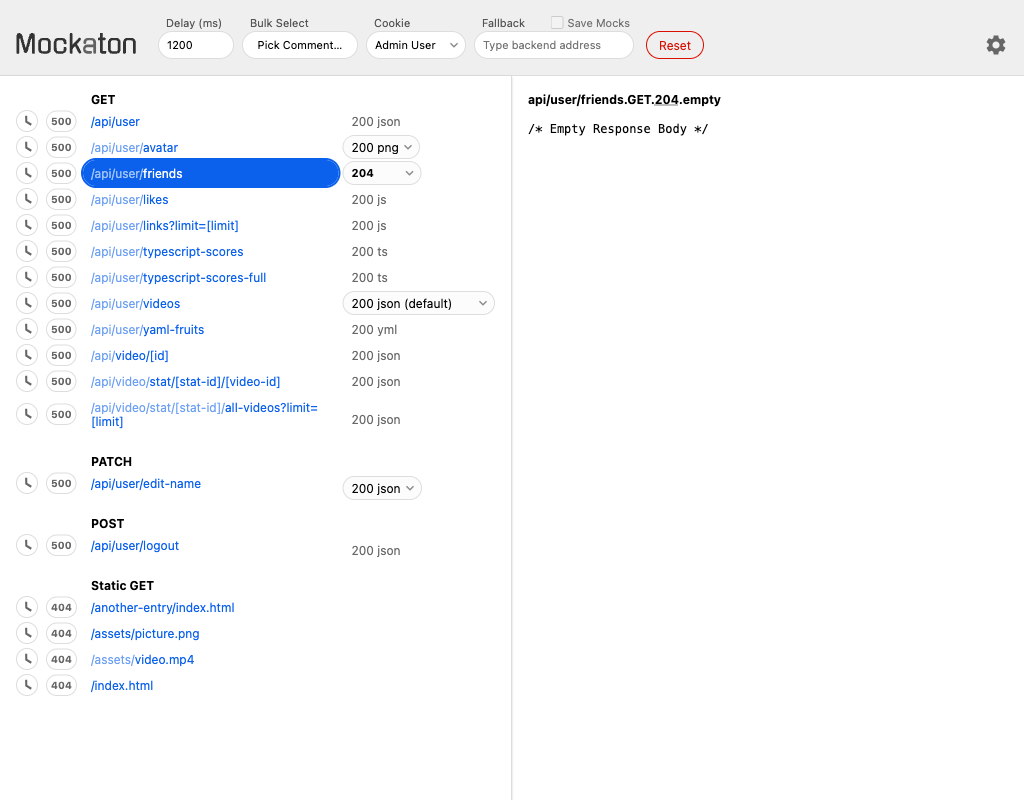
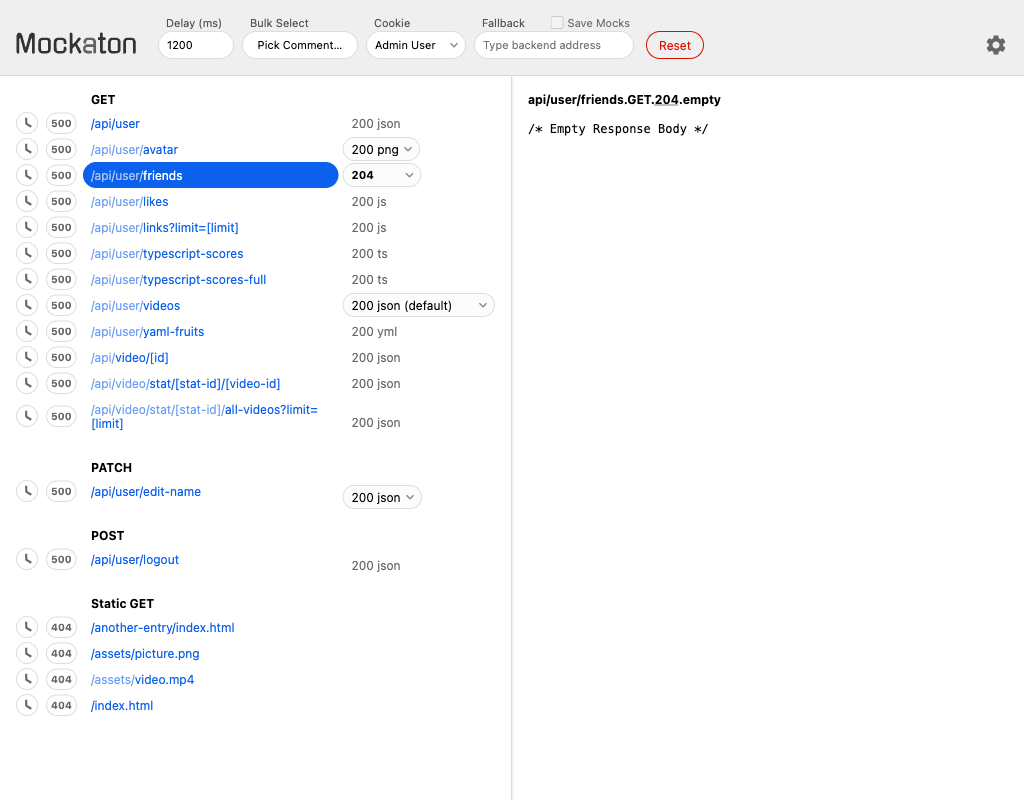
10.6.0 arrow nav

diff --git a/src/Dashboard.js b/src/Dashboard.js
@@ -49,6 +49,13 @@ for (const k of Object.keys(CSS))
 	CSS[k] = k
 
 
+const FocusGroup = {
+	ProxyToggler: 0,
+	DelayToggler: 1,
+	StatusToggler: 2,
+	PreviewLink: 3
+}
+
 const state = /** @type {State} */ {
 	brokersByMethod: {},
 	staticBrokers: {},
@@ -71,19 +78,20 @@ const state = /** @type {State} */ {
 
 	leftSideWidth: undefined,
 
-	chosenLink: {
-		method: '',
-		urlMask: ''
+	chosenLink: { method: '', urlMask: '' },
+	clearChosenLink() {
+		state.chosenLink = { method: '', urlMask: '' }
 	},
 	setChosenLink(method, urlMask) {
-		state.chosenLink = { method, urlMask } 
+		state.chosenLink = { method, urlMask }
 	}
 }
 
 
 const mockaton = new Commander(location.origin)
 updateState()
-deferred(initLongPoll)
+initLongPoll()
+initKeyboardNavigation()
 
 async function updateState() {
 	try {
@@ -92,7 +100,10 @@ async function updateState() {
 			throw response.status
 		Object.assign(state, await response.json())
 		document.body.replaceChildren(...App())
-		findChosenLink()?.click()
+		findChosenLink()?.focus()
+		const { method, urlMask } = state.chosenLink
+		if (method && urlMask)
+			await previewMock(method, urlMask)
 	}
 	catch (error) {
 		onError(error)
@@ -168,7 +179,7 @@ function SettingsMenu(id) {
 				r('input', {
 					type: 'checkbox',
 					checked: groupByMethod,
-					autofocus: true,
+					// autofocus: true, // TODO
 					onChange: toggleGroupByMethod
 				}),
 				r('span', null, t`Group by Method`)),
@@ -208,6 +219,7 @@ function BulkSelector() {
 	// But this way is easier to implement, with a few hacks.
 	const firstOption = t`Pick Comment…`
 	function onChange() {
+		state.clearChosenLink()
 		const value = this.value
 		this.value = firstOption // Hack 
 		mockaton.bulkSelectByComment(value)
@@ -316,6 +328,7 @@ function SaveProxiedCheckbox(ref) {
 
 function ResetButton() {
 	function onClick() {
+		state.clearChosenLink()
 		mockaton.reset()
 			.then(parseError)
 			.then(updateState)
@@ -352,7 +365,7 @@ function MockList() {
 }
 
 
-function Row({ method, urlMask, urlMaskDittoed, broker }) {
+function Row({ method, urlMask, urlMaskDittoed, broker }, i) {
 	const { canProxy, groupByMethod } = state
 	return (
 		r('tr', { 'data-method': method, 'data-urlMask': urlMask },
@@ -360,7 +373,7 @@ function Row({ method, urlMask, urlMaskDittoed, broker }) {
 			r('td', null, DelayRouteToggler(broker)),
 			r('td', null, InternalServerErrorToggler(broker)),
 			!groupByMethod && r('td', className(CSS.Method), method),
-			r('td', null, PreviewLink(method, urlMask, urlMaskDittoed)),
+			r('td', null, PreviewLink(method, urlMask, urlMaskDittoed, i === 0)),
 			r('td', null, MockSelector(broker))))
 }
 
@@ -382,26 +395,29 @@ function rowsFor(targetMethod) {
 	}))
 }
 
-function PreviewLink(method, urlMask, urlMaskDittoed) {
-	const { chosenLink, setChosenLink } = state
+
+function PreviewLink(method, urlMask, urlMaskDittoed, autofocus) {
 	async function onClick(event) {
 		event.preventDefault()
 		try {
 			findChosenLink()?.classList.remove(CSS.chosen)
 			this.classList.add(CSS.chosen)
-			setChosenLink(method, urlMask)
-			await previewMock(method, urlMask, this.href)
+			state.setChosenLink(method, urlMask)
+			await previewMock(method, urlMask)
 		}
 		catch (error) {
 			onError(error)
 		}
 	}
+	const { chosenLink } = state
 	const isChosen = chosenLink.method === method && chosenLink.urlMask === urlMask
 	const [ditto, tail] = urlMaskDittoed
 	return (
 		r('a', {
 			...className(CSS.PreviewLink, isChosen && CSS.chosen),
 			href: urlMask,
+			autofocus,
+			'data-focus-group': FocusGroup.PreviewLink,
 			onClick
 		}, ditto
 			? [r('span', className(CSS.dittoDir), ditto), tail]
@@ -410,7 +426,7 @@ function PreviewLink(method, urlMask, urlMaskDittoed) {
 
 function findChosenLink() {
 	return document.querySelector(
-		`body > main > .${CSS.leftSide} table .${CSS.PreviewLink}.${CSS.chosen}`)
+		`body > main > .${CSS.leftSide} .${CSS.PreviewLink}.${CSS.chosen}`)
 }
 
 const STR_PROXIED = t`Proxied`
@@ -418,11 +434,11 @@ const STR_PROXIED = t`Proxied`
 /** @param {ClientMockBroker} broker */
 function MockSelector(broker) {
 	function onChange() {
-		const { urlMask, method } = parseFilename(this.value)
+		const { method, urlMask } = parseFilename(this.value)
+		state.setChosenLink(method, urlMask)
 		mockaton.select(this.value)
 			.then(parseError)
 			.then(updateState)
-			.then(() => linkFor(method, urlMask)?.click())
 			.catch(onError)
 	}
 
@@ -476,7 +492,8 @@ function DelayRouteToggler(broker) {
 	}
 	return ClickDragToggler({
 		checked: broker.currentMock.delayed,
-		commit
+		commit,
+		focusGroup: FocusGroup.DelayToggler
 	})
 }
 
@@ -485,10 +502,10 @@ function DelayRouteToggler(broker) {
 function InternalServerErrorToggler(broker) {
 	function onChange() {
 		const { method, urlMask } = parseFilename(broker.mocks[0])
+		state.setChosenLink(method, urlMask)
 		mockaton.toggle500(method, urlMask)
 			.then(parseError)
 			.then(updateState)
-			.then(() => linkFor(method, urlMask)?.click())
 			.catch(onError)
 	}
 	return (
@@ -498,6 +515,7 @@ function InternalServerErrorToggler(broker) {
 			},
 			r('input', {
 				type: 'checkbox',
+				'data-focus-group': FocusGroup.StatusToggler,
 				name: broker.currentMock.file,
 				checked: parseFilename(broker.currentMock.file).status === 500,
 				onChange
@@ -509,10 +527,10 @@ function InternalServerErrorToggler(broker) {
 function ProxyToggler(broker) {
 	function onChange() {
 		const { urlMask, method } = parseFilename(broker.mocks[0])
+		state.setChosenLink(method, urlMask)
 		mockaton.setRouteIsProxied(method, urlMask, this.checked)
 			.then(parseError)
 			.then(updateState)
-			.then(() => linkFor(method, urlMask)?.click())
 			.catch(onError)
 	}
 	return (
@@ -523,7 +541,8 @@ function ProxyToggler(broker) {
 			r('input', {
 				type: 'checkbox',
 				checked: !broker.currentMock.file,
-				onChange
+				onChange,
+				'data-focus-group': FocusGroup.ProxyToggler
 			}),
 			CloudIcon()))
 }
@@ -553,7 +572,8 @@ function StaticFilesList() {
 					r('td', null, r('a', {
 						href: broker.route,
 						target: '_blank',
-						className: CSS.PreviewLink
+						className: CSS.PreviewLink,
+						'data-focus-group': FocusGroup.PreviewLink
 					}, dp[i]))
 				))))
 }
@@ -567,7 +587,8 @@ function DelayStaticRouteToggler(broker) {
 	}
 	return ClickDragToggler({
 		checked: broker.delayed,
-		commit
+		commit,
+		focusGroup: FocusGroup.DelayToggler
 	})
 }
 
@@ -586,13 +607,14 @@ function NotFoundToggler(broker) {
 			r('input', {
 				type: 'checkbox',
 				checked: broker.status === 404,
-				onChange
+				onChange,
+				'data-focus-group': FocusGroup.StatusToggler
 			}),
 			r('span', null, t`404`)))
 }
 
 
-function ClickDragToggler({ checked, commit }) {
+function ClickDragToggler({ checked, commit, focusGroup }) {
 	function onPointerEnter(event) {
 		if (event.buttons === 1)
 			onPointerDown.call(this)
@@ -615,6 +637,7 @@ function ClickDragToggler({ checked, commit }) {
 			},
 			r('input', {
 				type: 'checkbox',
+				'data-focus-group': focusGroup,
 				checked,
 				onPointerEnter,
 				onPointerDown,
@@ -623,7 +646,6 @@ function ClickDragToggler({ checked, commit }) {
 			}),
 			TimerIcon()))
 }
-
 
 
 function Resizer() {
@@ -703,7 +725,7 @@ function PayloadViewerTitleWhenProxied({ mime, status, statusText, gatewayIsBad 
 			' ' + mime))
 }
 
-async function previewMock(method, urlMask, href) {
+async function previewMock(method, urlMask) {
 	previewMock.controller?.abort()
 	previewMock.controller = new AbortController
 
@@ -713,7 +735,7 @@ async function previewMock(method, urlMask, href) {
 	}, SPINNER_DELAY)
 
 	try {
-		const response = await fetch(href, {
+		const response = await fetch(urlMask, {
 			method,
 			signal: previewMock.controller.signal
 		})
@@ -781,6 +803,50 @@ function focus(selector) {
 	document.querySelector(selector)?.focus()
 }
 
+function initKeyboardNavigation() {
+	addEventListener('keydown', onKeyDown)
+
+	function onKeyDown(event) {
+		const pivot = document.activeElement
+		switch (event.key) {
+			case 'ArrowDown':
+			case 'ArrowUp': {
+				let fg = pivot.getAttribute('data-focus-group')
+				if (fg !== null) {
+					const offset = event.key === 'ArrowDown' ? +1 : -1
+					circularAdjacent(offset, allInFocusGroup(+fg), pivot).focus()
+				}
+				break
+			}
+			case 'ArrowRight':
+			case 'ArrowLeft': {
+				if (pivot.hasAttribute('data-focus-group') || pivot.classList.contains(CSS.MockSelector)) {
+					const offset = event.key === 'ArrowRight' ? +1 : -1
+					rowFocusable(pivot, offset)?.focus()
+				}
+				break
+			}
+		}
+	}
+
+	function rowFocusable(el, step) {
+		const row = el.closest('tr')
+		if (row) {
+			const focusables = Array.from(row.querySelectorAll('a, input, select:not(:disabled)'))
+			return circularAdjacent(step, focusables, el)
+		}
+	}
+
+	function allInFocusGroup(focusGroup) {
+		return Array.from(document.querySelectorAll(
+			`body > main > .${CSS.leftSide} table > tr > td [data-focus-group="${focusGroup}"]:is(input, a)`))
+	}
+
+	function circularAdjacent(step = 1, arr, pivot) {
+		return arr[(arr.indexOf(pivot) + step + arr.length) % arr.length]
+	}
+}
+
 /** # Misc */
 
 async function parseError(response) {
@@ -838,7 +904,7 @@ function SettingsIcon() {
  */
 
 function initLongPoll() {
-	poll.oldSyncVersion = 0
+	poll.oldSyncVersion = -1
 	poll.controller = new AbortController()
 	poll()
 	document.addEventListener('visibilitychange', () => {
@@ -856,9 +922,11 @@ async function poll() {
 		const response = await mockaton.getSyncVersion(poll.oldSyncVersion, poll.controller.signal)
 		if (response.ok) {
 			const syncVersion = await response.json()
+			const skipUpdate = poll.oldSyncVersion === -1
 			if (poll.oldSyncVersion !== syncVersion) { // because it could be < or >
 				poll.oldSyncVersion = syncVersion
-				await updateState()
+				if (!skipUpdate)
+					await updateState()
 			}
 			poll()
 		}

diff --git a/src/Dashboard.css b/src/Dashboard.css
@@ -378,9 +378,9 @@ table {
 	border-collapse: collapse;
 
 	th {
-		padding-bottom: 2px;
+		padding-bottom: 4px;
 		padding-left: 4px;
-		border-top: 20px solid transparent;
+		border-top: 24px solid transparent;
 		text-align: left;
 	}
 

diff --git a/CHANGELOG.md b/CHANGELOG.md
@@ -1,4 +1,8 @@
 # Changelog
+- 10.6.0 dashboard: arrow navigation
+ 
+![](docs/10.6.0-arrow-nav.gif)
+
 - 10.5.0 dashboard: qs option `?groupByMethod=false`
 - 10.4.0 allow changing delay with wheel event
 - 10.3.1 add separators to bulk selector and don't expose internally used comment for autogenerated 500
